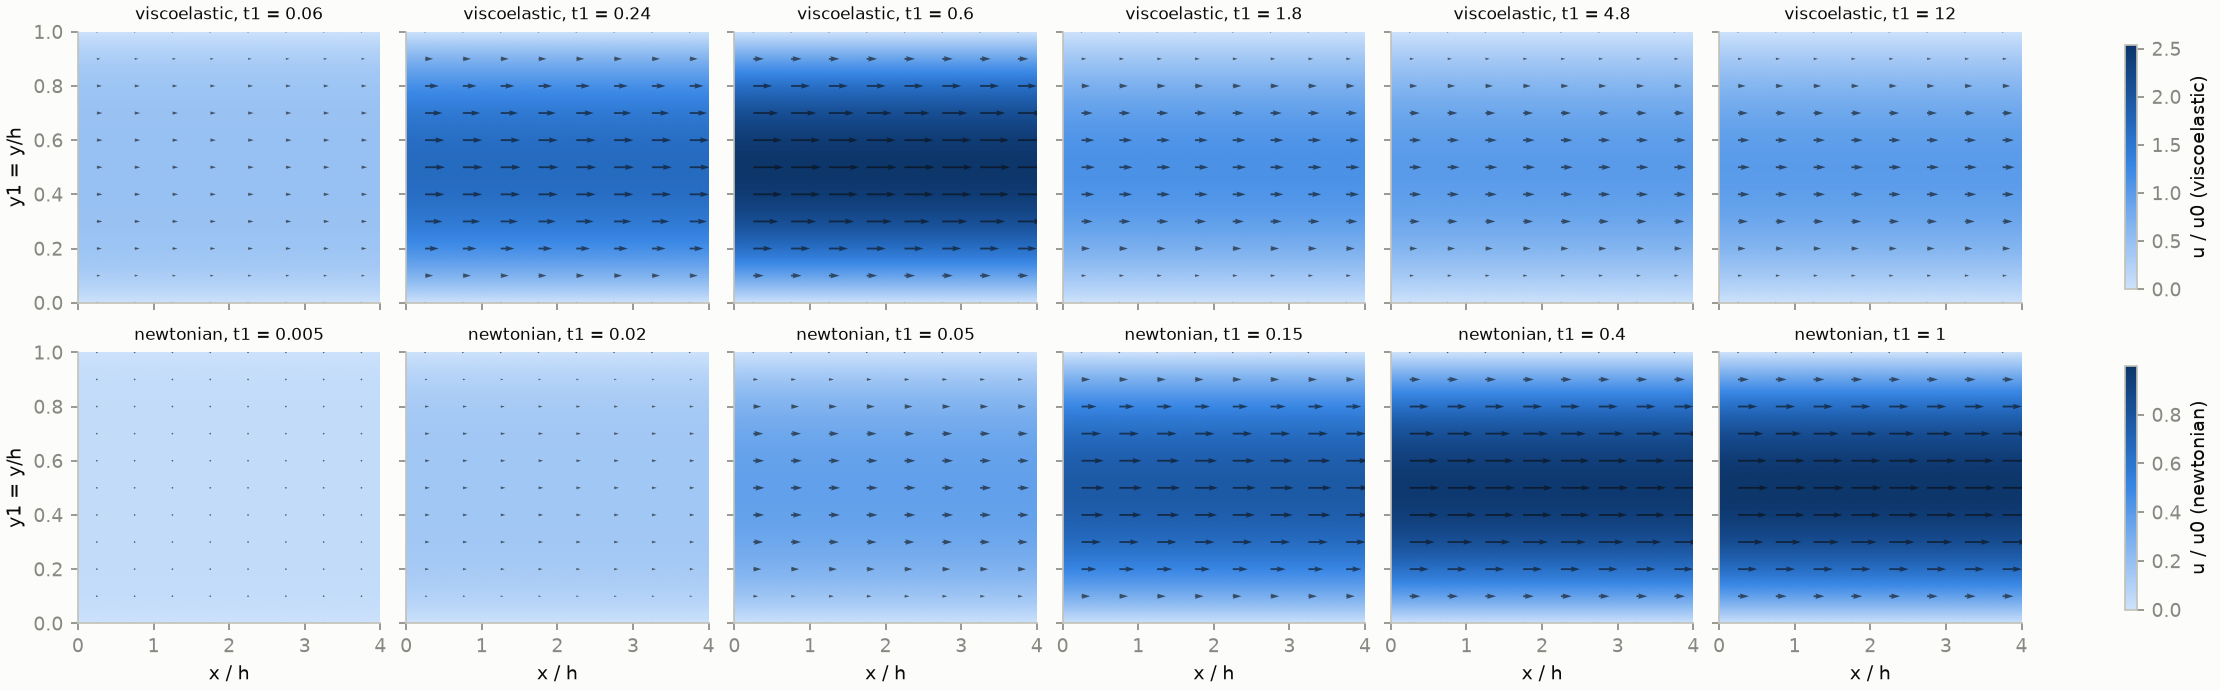
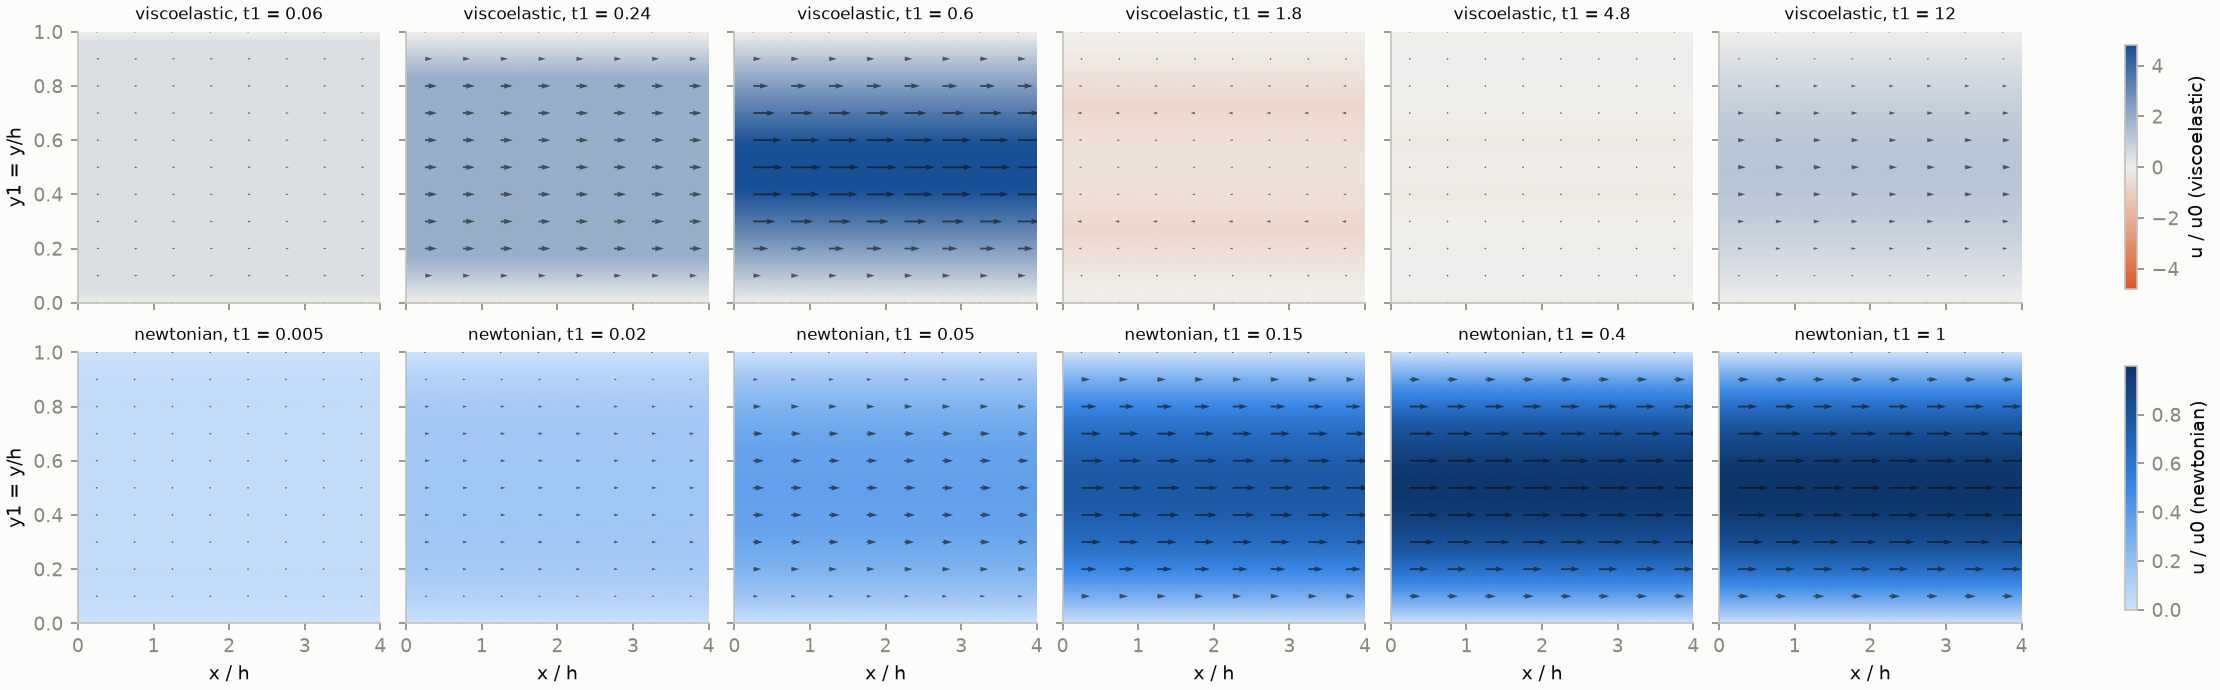
latest run results

diff --git a/src/workspace/visco/visco_anal_sol.py b/src/workspace/visco/visco_anal_sol.py
@@ -297,8 +297,8 @@ def main():
 
     out = Path(a.out_dir).expanduser()
     out.mkdir(parents=True, exist_ok=True)
-    f1 = plot_channel_fields(results, y, fname=out / "channel_field.png")
-    f2 = plot_profiles_and_centerline(results, y, fname=out / "profiles.png")
+    f1 = plot_channel_fields(results, y, fname=out / "channel_field_oldroyd.png")
+    f2 = plot_profiles_and_centerline(results, y, fname=out / "profiles_oldroyd.png")
     print(f"saved {f1}, {f2}")
     if not a.no_show:
         plt.show()
